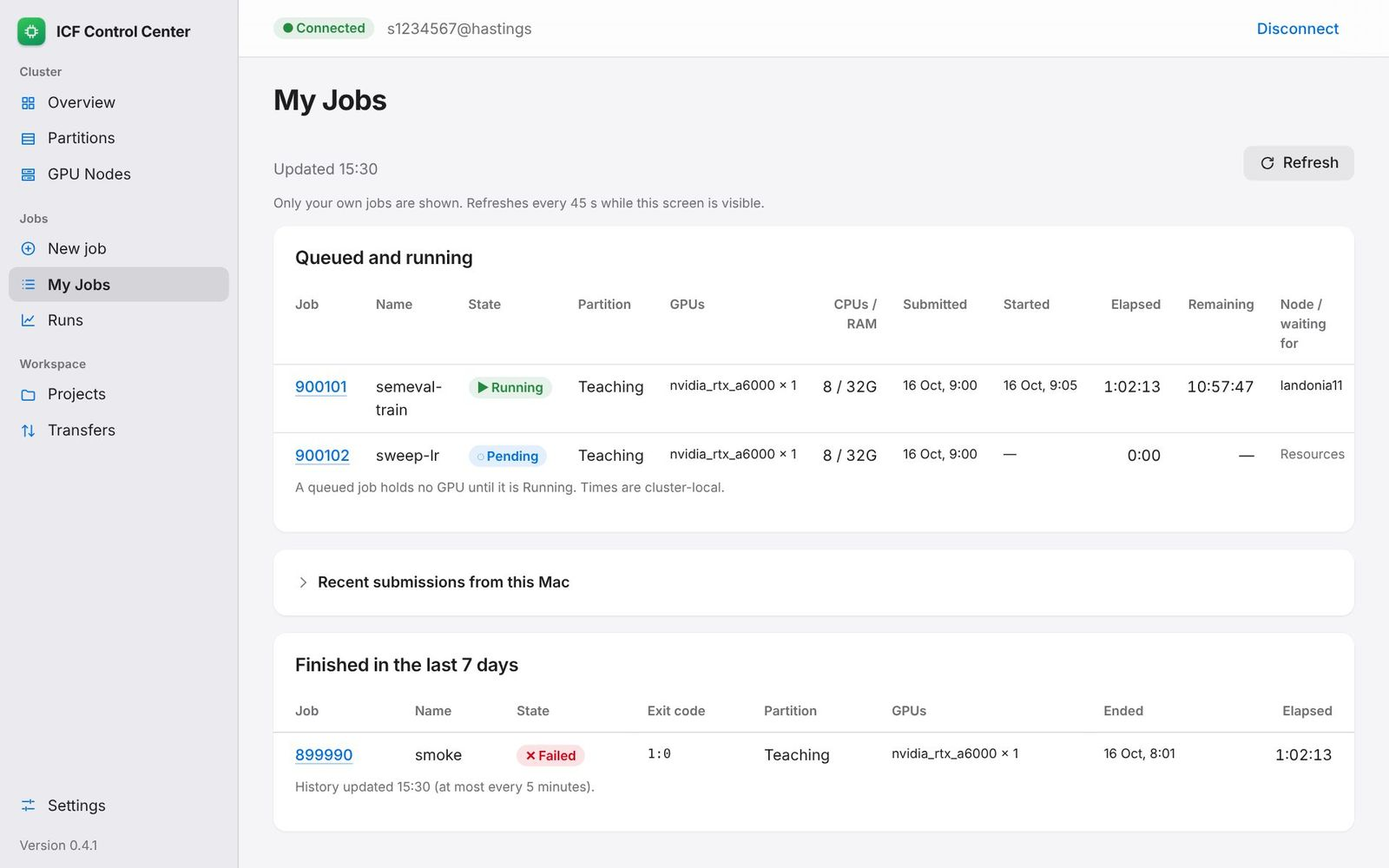
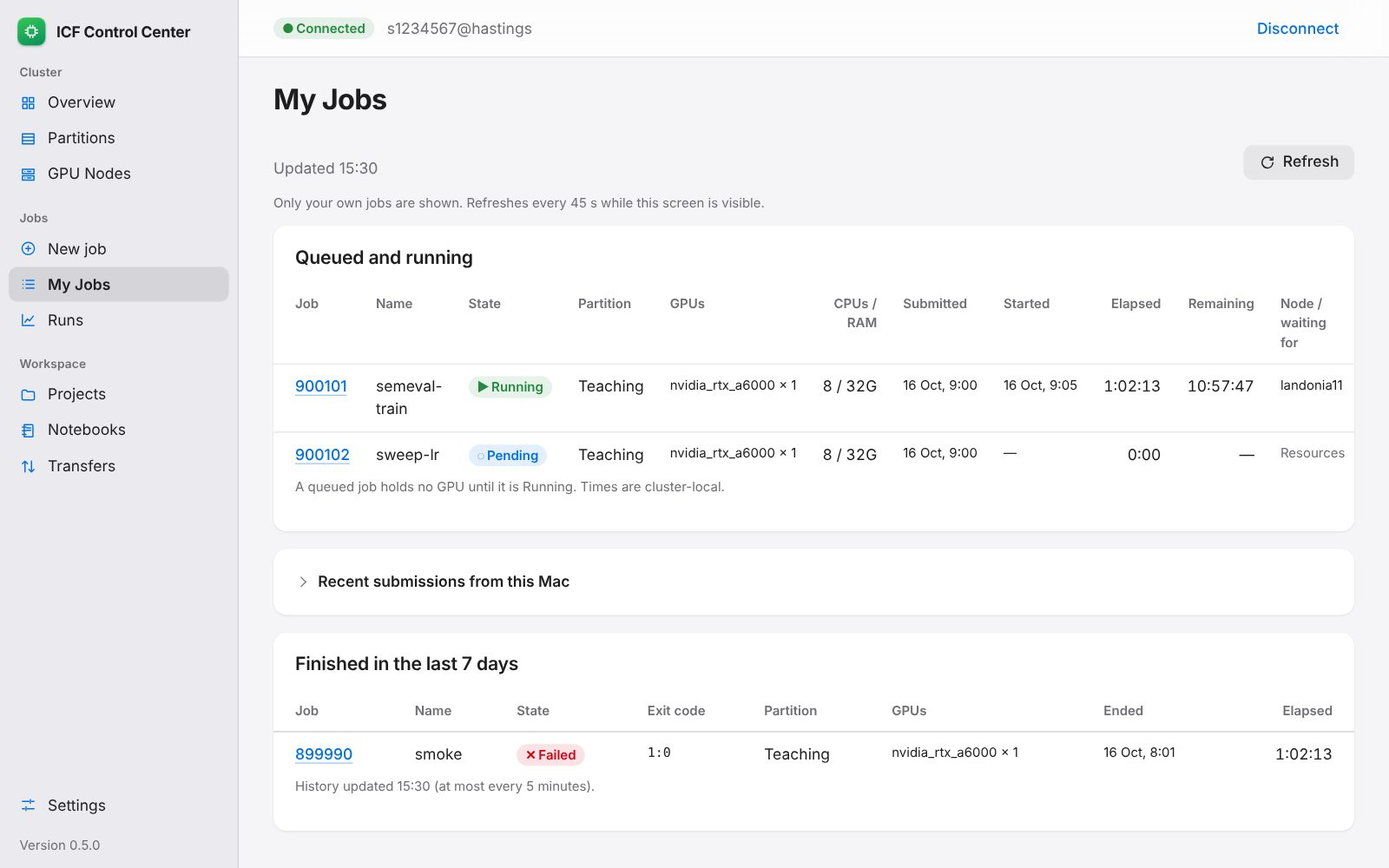
Release 0.5.0: docs for compiled cells and Run on GPU, new screenshots
- ADR-031 amended: CUDA/C++/C via kernel magics, editor runs, why not
  separate kernels (xeus-cling).
- USER_GUIDE (compiled cells, Run on GPU), ICF_COMMANDS §4.7 (magics, tools),
  SECURITY, TESTING, ARCHITECTURE, CHANGELOG [0.5.0], release checklist.
- README: New in 0.5, Run on GPU and CUDA cell screenshots; every screenshot
  retaken (Notebooks in the sidebar, Version 0.5.0).
- Version 0.5.0 in package.json, Cargo.toml (+ lock) and tauri.conf.json.

Claude-Session: https://claude.ai/code/session_018vXRh55FoNY1FZu8AfXvkn

diff --git a/README.md b/README.md
@@ -8,7 +8,7 @@ See which GPUs are free, run jobs and training on GPU nodes, work in Jupyter not
 your code on ICF, open projects in VS Code without password prompts, move datasets, and follow
 everything — without remembering a single `sinfo`, `sbatch` or `squeue` flag.
 
-![version](https://img.shields.io/badge/version-0.4.1-blue)
+![version](https://img.shields.io/badge/version-0.5.0-blue)
 ![platform](https://img.shields.io/badge/macOS-13%2B%20·%20Apple%20Silicon-lightgrey)
 ![built with](https://img.shields.io/badge/built%20with-Tauri%20·%20Rust%20·%20React-orange)
 
@@ -23,7 +23,19 @@ everything — without remembering a single `sinfo`, `sbatch` or `squeue` flag.
 
 ---
 
-## 🆕 New in 0.4
+## 🆕 New in 0.5
+
+- 📓 **Notebooks on a GPU** *(experimental)*. A Notebooks tab that reads like JupyterLab: run cells
+  one at a time on an Interactive-partition GPU with variables kept between cells, and see tables,
+  plots, progress bars and errors as they arrive. Jupyter keys and full screen (⌃⌘F). No notebook
+  server, port or token. → [Notebooks](docs/USER_GUIDE.md#notebooks)
+- ⚡ **CUDA, C++ and C cells.** Pick CUDA, C++ or C in a cell's menu (or start it with `%%cuda`,
+  `%%cpp`, `%%c`): it is compiled with `nvcc`/`g++`/`gcc` on the GPU node and run there.
+  → [Compiled cells](docs/USER_GUIDE.md#cuda-c-and-c-cells)
+- ▶ **Run on GPU from the editor.** Python, CUDA, C++ and C files run on a GPU node with one click
+  (⌘⇧Enter), with arguments, and the output appears under the code — saved or not.
+
+## New in 0.4
 
 - ✏ **Edit files on ICF, right in the app.** Python, C/C++, CUDA and Markdown with syntax colours,
   other text files as plain text, and Jupyter notebooks as cells. A save replaces the file on ICF only
@@ -36,7 +48,7 @@ everything — without remembering a single `sinfo`, `sbatch` or `squeue` flag.
 - 🚀 **One *New job* screen** for script jobs and training workflows, and **Runs** in the sidebar.
 - 🎨 **A cleaner, Apple-style look** across every screen.
 
-0.4.1 is a housekeeping release with the same features; see the [changelog](docs/CHANGELOG.md).
+0.4.1 was a housekeeping release; see the [changelog](docs/CHANGELOG.md).
 
 ## ✨ What is it for?
 
@@ -52,8 +64,8 @@ worked. **ICF Control Center puts all of that in one window.**
 | 📜 **Live logs** | Read your job's output and errors in the app, and follow them while it runs. |
 | 🛑 **Cancel safely** | Cancel your own jobs, with a confirmation. Other people's jobs can't be touched. |
 | 🗂 **Projects** | Browse your ICF home, create folders and files, and keep your recent projects one click away. |
-| ✏ **Edit on ICF** | Code editor with syntax colours, search and ⌘S. Saves are checked, so they never silently overwrite someone else's change. |
-| 📓 **Notebooks** *(experimental)* | Jupyter notebooks as a real notebook page: run cells one at a time on an Interactive-partition GPU, see tables, plots and errors as they arrive, Jupyter keys, full screen. No notebook server, port or token. |
+| ✏ **Edit on ICF** | Code editor with syntax colours, search and ⌘S. Saves are checked, so they never silently overwrite someone else's change. **Run on GPU** runs a Python, CUDA, C++ or C file on a GPU node and shows its output. |
+| 📓 **Notebooks** *(experimental)* | Jupyter notebooks as a real notebook page: run cells one at a time on an Interactive-partition GPU, see tables, plots and errors as they arrive, Jupyter keys, full screen. Python, CUDA, C++ and C cells. No notebook server, port or token. |
 | 🧑💻 **VS Code** | Open a project in VS Code over Remote - SSH, optionally signed in through the app so it never asks for passwords. Pick the remote Python interpreter and CUDA toolchain. |
 | ⇅ **Transfers** | Upload datasets and download results over your existing SSH connection, verified with SHA-256, resumable, never overwriting. |
 | 🏋 **Training workflows** | One reviewed job that stages data to the GPU node's fast local disk, trains, saves checkpoints, copies results back and cleans up. |
@@ -77,8 +89,8 @@ worked. **ICF Control Center puts all of that in one window.**
 | Python, with syntax colours | CUDA (dark mode) |
 |---|---|
 | ![Editing train.py on ICF in the app](docs/screenshots/editor-python.jpg) | ![Editing a CUDA kernel in dark mode](docs/screenshots/editor-cuda-dark.jpg) |
-| **New file…** | |
-| ![Create a file on ICF: name and type, then open it in the editor](docs/screenshots/new-file.jpg) | |
+| **Run on GPU** | **New file…** |
+| ![The editor running kernel.cu on a GPU node with program arguments; the output appears below the code](docs/screenshots/editor-run-gpu.jpg) | ![Create a file on ICF: name and type, then open it in the editor](docs/screenshots/new-file.jpg) |
 
 ### Notebooks on a GPU (experimental)
 
@@ -87,6 +99,8 @@ worked. **ICF Control Center puts all of that in one window.**
 | ![Notebook page: rendered Markdown, code cells with outputs, kernel chip showing Python, node and time left](docs/screenshots/notebook-page.jpg) | ![Start kernel sheet: Interactive partition, GPU, CPUs, memory, time, Python, the srun line and notices to confirm](docs/screenshots/notebook-kernel.jpg) |
 | **Plots, progress and errors** | **Full screen (dark mode)** |
 | ![Notebook outputs: a bar chart, run timings and Markdown](docs/screenshots/notebook-outputs.jpg) | ![Notebook in full screen, dark mode, with a pandas table](docs/screenshots/notebook-fullscreen-dark.jpg) |
+| **A CUDA cell, compiled and run on the node** | |
+| ![A %%cuda cell with a CUDA badge: a saxpy kernel compiled with nvcc on the GPU node, and its output](docs/screenshots/notebook-cuda.jpg) | |
 
 ### VS Code and Python environments
 

diff --git a/docs/TESTING.md b/docs/TESTING.md
@@ -81,14 +81,15 @@ Notes:
   window opening (the CLI is exercised with a fake bundle; detection was checked read-only against the
   real install).
 
-## Interactive kernels and the Notebooks tab (after 0.4.1)
+## Interactive kernels, the Notebooks tab and Run on GPU (0.5.0)
 
 | Suite | What |
 |---|---|
-| Rust `kernel::tests` (12) | validation (Interactive only, MaxTime, hostile paths, unknown fields), rendering (quoting, one `exec srun`, heredoc delimiters), driver/srun line parsing, oversized lines, final messages |
-| Rust `kernel::tests::real_driver_*`, `closing_stdin_alone_*`, `missing_notebook_*` | the **real** launch script through `/bin/sh -s` with a fake `srun` on `PATH` and the real `driver.py` + ipykernel: handshake, outputs, `stop_on_error` aborts, interrupt, restart, stop, EOF exit, precheck refusal. Needs a Python with `ipykernel` (`ICFCC_TEST_PYTHON`; CI installs one in a throwaway venv), else skipped |
+| Rust `kernel::tests` (12) | validation (Interactive only, MaxTime, hostile paths, runnable file types, unknown fields), rendering (quoting, one `exec srun`, heredoc delimiters), driver/srun line parsing, oversized lines, final messages |
+| Rust `kernel::tests::real_driver_*`, `closing_stdin_alone_*`, `missing_notebook_*` | the **real** launch script through `/bin/sh -s` with a fake `srun` on `PATH` and the real `driver.py` + ipykernel: handshake, outputs, `stop_on_error` aborts, interrupt, restart, stop, EOF exit, precheck refusal; after the restart, compiled cells: `%%cpp` with args and a local header, a compile error, `%%c` exit codes and `-lm`, `%%cuda` without `nvcc`, `%%icfcc_script` with `sys.argv` and `sys.exit(2)` (g++/gcc cases need the compilers; CI's macos-14 has them). Needs a Python with `ipykernel` (`ICFCC_TEST_PYTHON`; CI installs one in a throwaway venv), else skipped |
 | Rust `workflow::tests::toolchain_lines_are_rendered_exactly` | the shared toolchain lines keep the batch wrapper byte-identical |
-| Frontend `tests/notebooks.test.tsx` (12) | Markdown/HTML whitelisting (scripts, styles, `on*`, remote images, `javascript:` links), ANSI and progress bars, stream merging, MIME priority, Jupyter keys, byte-for-byte serialisation; Notebooks tab: open from Projects, save only edited source, reviewed kernel start, live run + saved outputs, Run all stops at the first error, leave guard stops the kernel, full screen, command-mode keys |
+| Frontend `tests/notebooks.test.tsx` (14) | Markdown/HTML whitelisting (scripts, styles, `on*`, remote images, `javascript:` links), ANSI and progress bars, stream merging, MIME priority, Jupyter keys, byte-for-byte serialisation; Notebooks tab: open from Projects, save only edited source, reviewed kernel start, live run + saved outputs, Run all stops at the first error, leave guard stops the kernel, full screen, command-mode keys; cell language from the magic line, switching a cell to CUDA from its menu |
+| Frontend `tests/run.test.tsx` (5) | which files run and the cell sent for each; editor Run on GPU for CUDA (unsaved text, arguments, reviewed kernel start, output panel) and Python (`%%icfcc_script` with the path); leaving asks first and stops the kernel; no run bar for other text files |
 
 ## Live ICF smoke tests (manual, need explicit approval)
 

diff --git a/docs/ICF_COMMANDS.md b/docs/ICF_COMMANDS.md
@@ -378,7 +378,7 @@ prints `ready`:
 ```sh
 # icfcc:kernel
 umask 077
-<need_file '<notebook>' notebook home; need_exec '<python>' interpreter; need_file '<rc>' toolchain any>
+<need_file '<file>' file home; need_exec '<python>' interpreter; need_file '<rc>' toolchain any>
 command -v srun …  ||  printf '@@err nosrun'          # prechecks print @@err … and exit 0
 ICFCC_DRIVER=$(cat <<'ICFCC_PY_<tag>'                # driver.py, embedded in the app
 …
@@ -388,7 +388,7 @@ export ICFCC_DRIVER
 ICFCC_STEP=$(cat <<'ICFCC_STEP_<tag>'                # runs on the node under bash
 source '<rc>' / module load … ; PY='<python>' ; . "$(dirname "$PY")/activate"
 "$PY" -c 'import ipykernel, jupyter_client' || fail ipykernel_missing
-cd '<notebook folder>' && exec "$PY" -u -c "$ICFCC_DRIVER"
+cd '<the file's folder>' || fail workdir_missing ; exec "$PY" -u -c "$ICFCC_DRIVER"
 ICFCC_STEP_<tag>
 )
 printf '@@starting\n'
@@ -399,11 +399,25 @@ exec srun --job-name=icfcc-notebook-<tag> --partition=<Interactive…> --nodes=1
 
 On the node, the driver writes a connection file with a random key in a private `mkdtemp` (0700) and
 starts `python -m ipykernel_launcher -f <file>` over **IPC sockets** (no TCP port). It relays JSON
-lines: in `exec{id,code}`, `interrupt` (SIGINT to the kernel), `restart`, `stop`; out `ready{job,node,python}`,
+lines: in `exec{id,code}`, `interrupt` (SIGINT to the kernel), `restart`, `stop`; out `ready{job,node,python,tools}`,
 `out{id,output}` (nbformat output dicts; one payload over 2 MiB becomes a notice), `clear`, `done{id,count,status}`,
 `status{busy}`, `restarted`, `bye{reason}`. It exits on stdin EOF, `stop`, SIGTERM/SIGHUP, kernel death, or 30
 minutes without an execution, and removes its directory. srun's own stderr (`srun: job N queued …`,
 `srun: error: …`) gives the job id and any refusal.
+
+`<file>` is the open notebook, or the source file the editor runs (`.py .cu .cpp .cc .cxx .c`). Before
+`ready`, the driver runs one fixed, silent snippet in the kernel (`MAGICS`, again after each restart)
+that adds the cell magics the app uses:
+
+| Magic (first line of the code sent) | On the node |
+|---|---|
+| `%%cuda` / `%%cu`, `%%cpp`, `%%c` `[flags] [-- args]` | write the cell to a private `mkdtemp` (0700); `nvcc -O2 [-arch=native]`, `g++ -std=c++17 -O2` or `gcc -O2` with the flags, `-I <folder>` and `-l…` after the source; run the binary in the folder with the args; remove the directory |
+| `%%icfcc_script '<path>' [-- args]` (editor, Python files) | run the text as `__main__` with `__file__` and `sys.argv` set, restored afterwards |
+
+The compilers come from `PATH` after the project's toolchain lines, so `nvcc` is the selected CUDA
+toolchain's. `tools` in `ready` names those found (`nvcc 12.8 · g++ 11.4.0`, each from `--version`
+with a 5 s limit). The magic line and the cell are the user's own code, run by their own kernel in
+their allocation; nothing is interpolated into a shell (`subprocess` with an argument list).
 
 ---
 

diff --git a/docs/RELEASE_CHECKLIST.md b/docs/RELEASE_CHECKLIST.md
@@ -63,16 +63,26 @@
 - [ ] A real sign-in still works with the 0.4.1 build
 - [x] Publish the draft release
 
-## Next release (Notebooks tab and interactive kernels, ADR-031)
+## v0.5.0 (Notebooks tab, interactive kernels, CUDA/C++/C cells, Run on GPU in the editor; ADR-031)
 
-- [x] Frontend gates: lint (incl. ui/logic boundary), typecheck, 81 UI tests, production build
+- [x] Frontend gates: lint (incl. ui/logic boundary), typecheck, 89 UI tests, production build
 - [x] Rust: fmt, clippy `-D warnings` and tests run locally on Linux (macOS-only modules stubbed);
-      the real driver + ipykernel relay test passes
-- [x] Rust gates on macos-14 CI (run 27): fmt, clippy, 136 unit tests incl. the real driver + ipykernel relay, auth and job flows
+      the real driver + ipykernel relay test passes, including compiled cells with g++/gcc
+- [x] Rust gates on macos-14 CI (run 27, before compiled cells): fmt, clippy, 136 unit tests incl. the real driver + ipykernel relay, auth and job flows
+- [ ] Rust gates on macos-14 CI for the 0.5.0 head (compiled cells with Apple clang as g++/gcc)
+- [ ] Opt-in: `cargo test --test real_openssh -- --ignored` and `cargo test --lib keychain_roundtrip -- --ignored`
+- [ ] Built `.app` (demo data): Notebooks tab, a CUDA cell, editor run bar, full screen (button and
+      ⌃⌘F) in WebKit, notebook CSS loads under the CSP, light and dark
 - [ ] **Approved live kernel test** (needs explicit consent): open a notebook, start a kernel on
-      Interactive (1 GPU, 15 min), run `import torch; torch.cuda.is_available()` and a cell that prints;
-      Stop; `squeue -u $USER` shows no job left. Repeat with Disconnect instead of Stop, and once
-      leaving the kernel idle until the 30-minute shutdown (or a short time limit)
+      Interactive (1 GPU, 15 min) with the project's CUDA toolchain; run
+      `import torch; torch.cuda.is_available()`, a `%%cuda` saxpy, a `%%cpp` hello, Interrupt, Restart;
+      Stop; `squeue -u $USER` shows no job left. Repeat with Disconnect instead of Stop, and once with
+      **Run on GPU** for a `.cu` file in the editor
 - [ ] Confirm students may `srun` on Interactive from the login node; note typical queue times
-- [ ] Built `.app`: full screen (button and ⌃⌘F) works in WebKit; notebook CSS loads under the CSP
-- [ ] Bump versions, changelog date, tag
+- [ ] Confirm the ICF CUDA toolchains support `nvcc -arch=native` (CUDA 11.6+)
+- [x] Versions agree: `frontend/package.json`, `backend/Cargo.toml` (+ `Cargo.lock`), `backend/tauri.conf.json`
+- [ ] Merge the PR (merge commit), set the CHANGELOG date to the tag date, tag `v0.5.0` on `main`, push the tag
+- [ ] Release workflow green: `.app` built on macos-14, ad-hoc signed, `codesign --verify` passes,
+      zip + SHA-256 attached to the draft release
+- [ ] Downloaded zip opens on an Apple Silicon Mac; sidebar shows **Version 0.5.0**; demo data works
+- [ ] Publish the draft release

diff --git a/docs/USER_GUIDE.md b/docs/USER_GUIDE.md
@@ -120,6 +120,15 @@ without VS Code:
 - **Keys:** Tab indents (press Esc, then Tab, to leave the editor). ⌘F searches and ⌘S saves.
 - **Notebooks** (`.ipynb`) open in the [Notebooks](#notebooks) tab instead.
 
+**Run on GPU (experimental).** Python (`.py`), CUDA (`.cu`), C++ (`.cpp`, `.cc`, `.cxx`) and C (`.c`)
+files have a run bar above the editor. **Start kernel…** reviews an interactive kernel exactly as in
+the [Notebooks](#notebooks) tab; then type the program's arguments and press **Run on GPU** (⌘⇧Enter).
+The text in the editor runs, saved or not, in the file's folder on the GPU node: Python as a script
+(`__name__ == "__main__"`, `sys.argv` set), CUDA/C++/C compiled first (see
+[compiled cells](#cuda-c-and-c-cells) for the compiler options). Output appears below the editor; a
+compile error or a non-zero exit code is shown in red. The kernel keeps running between runs and stops
+when you leave the file (the app asks first), like a notebook's.
+
 **Saving.** Save writes to ICF only if nobody changed the file since you opened it, for example in
 VS Code. If someone did, you choose **Reload from ICF** or **Overwrite the version on ICF**. Leaving
 with unsaved edits asks first.
@@ -256,6 +265,28 @@ them into the notebook, as Jupyter does.
 The kernel holds the GPU until you **Stop** it, leave the notebook or disconnect (the app asks first),
 after 30 minutes without running a cell, or at its time limit. **Interrupt** stops the running cell;
 **Restart** clears all variables. *Run all* stops at the first error.
+
+### CUDA, C and C++ cells
+
+Choose **CUDA**, **C++** or **C** in a cell's type menu, or start a code cell with `%%cuda`, `%%cpp` or
+`%%c` (the notebook stays an ordinary Jupyter notebook). Running the cell compiles it on the GPU node
+and runs the program there; its output streams into the cell:
+
+```
+%%cuda -O3 -lcublas -- 1048576
+#include <cstdio>
+int main(int argc, char **argv) { … }
+```
+
+- **First line:** compiler flags, then `--` and the program's arguments.
+- **Compilers:** `nvcc -O2 -arch=native` (the GPU of your allocation; pass `-arch=sm_75` or
+  `-gencode …` to choose, e.g. for CUDA older than 11.6), `g++ -std=c++17 -O2`, `gcc -O2`. Headers in
+  the notebook's folder are found (`-I`), and the program runs in that folder.
+- **`nvcc` comes from the project's CUDA toolchain** (Projects → Python environment); choose one before
+  starting the kernel. The kernel chip's tooltip lists the compilers it found.
+- **Errors:** compiler messages appear in the cell, and a failed build or a non-zero exit code marks the
+  cell as an error, so *Run all* stops there. **Interrupt** stops a running program.
+- Each run is a new process: C/C++ variables do not persist between cells, unlike Python's.
 
 **Full screen.** The ⤢ button (or ⌃⌘F) hides the sidebar and status bar and makes the window full
 screen, like an editor's zen mode.

diff --git a/docs/ARCHITECTURE.md b/docs/ARCHITECTURE.md
@@ -14,11 +14,12 @@ logic/    .ts only: what each screen knows and does
   api.ts             the only invoke()/listen() wrapper (typed IPC to the backend)
   format.ts          display formatting and state labels
   persist.ts         remembered UI preferences (localStorage, never secrets)
-  app/               useAppShell: connection, settings, snapshot, navigation, guarded disconnect
+  app/               useAppShell: connection, settings, snapshot, navigation, leave guard (guard.ts),
+                     guarded disconnect
   cluster/           useSnapshot (polling budget), node/partition filters, fleet totals, GPU limits
   connection/        useConnection (status + SSH prompts), useLogin, useChallenge
   jobs/              useJobs, script-job draft + preview/submit, My Jobs, job detail + cancel, log stream
-  editor/            file editor (hash-checked save), languages
+  editor/            file editor (hash-checked save), languages, Run on GPU (useEditorPage, runFile)
   notebooks/         notebook parse/serialize + cells and modes, Jupyter keys, Markdown/HTML → safe
                      element tree, ANSI, outputs, kernel (useKernel, start sheet), recent notebooks
   projects/          remote browser, recent projects, VS Code status/sharing, Python environment
@@ -97,7 +98,7 @@ monitoring: workflow_refresh ─▶ jobs_list_mine (shared, rate-limited) + one 
 ## Interactive kernel (ADR-031)
 
 ```text
-Notebooks page ─kernel_preview(request)─▶ Interactive partition only + resource/interpreter checks
+Notebook or editor page ─kernel_preview(request)─▶ Interactive partition only + resource/interpreter checks
        ◀─ srun line + notices (stored like a V2 preview)
 Start ─kernel_start(previewId, ack, Channel)─▶ take preview (consumed) ─▶ re-validate
        ─▶ Session::spawn_stream: ssh -T … sh -s  (one long-lived mux session, stdin kept open)
@@ -105,6 +106,8 @@ login node:  prechecks ─▶ @@starting ─▶ exec srun … /bin/bash -c "$ICF
 compute node: toolchain, venv, import check ─▶ python -u driver.py ─ipc (0700 dir)─▶ ipykernel
        ◀─ srun stderr: queued (job id) | error;  driver stdout: ready / out / done / bye (JSON lines)
 cells ─kernel_execute(id, code)─▶ one JSON line on stdin ─▶ outputs stream back on the Channel
+       %%cuda/%%cpp/%%c: compile in a 0700 mkdtemp on the node, run, remove (driver MAGICS)
+       editor Run on GPU: the buffer as one cell (%%cuda… or %%icfcc_script '<path>' for Python)
 end:  Stop | leave page | Disconnect/quit | 30 min idle | --time | SSH drop ─▶ driver exits, srun ends
        kernel_stop: stop line + EOF, then owner-checked scancel if the job is still there, then kill
 ```

diff --git a/docs/DECISIONS.md b/docs/DECISIONS.md
@@ -266,8 +266,26 @@ host-key-changed errors (ADR-003), and a second login.
 - **Rendering.** Markdown (markdown-it, parser only, `html: false`) and HTML outputs are converted to
   a whitelisted element tree, never inserted as HTML: raw HTML stays text, links do not navigate,
   images must be `data:` (inline outputs or cell attachments), SVG is shown through `<img>`.
+- **Compiled languages (0.5.0).** CUDA, C++ and C run on the same Python kernel, not on kernels of
+  their own. At start and after each restart the driver loads a fixed IPython snippet (`MAGICS`) with
+  the cell magics `%%cuda`/`%%cu`, `%%cpp` and `%%c`: the cell is written to a private `mkdtemp`
+  (0700), compiled with `nvcc` (`-O2 -arch=native` unless an `-arch`/`-gencode` flag is given),
+  `g++ -std=c++17 -O2` or `gcc -O2`, always with `-I <the file's folder>`, and the binary runs in that
+  folder; its output streams line by line, Interrupt terminates it, and the directory is removed.
+  Flags come first on the magic line and program arguments after `--`. Notebooks stay plain Jupyter
+  (the magic is the cell's first line). `ready` reports the compilers found (`tools`), and the
+  project's CUDA toolchain is sourced before the driver starts, so `nvcc` is on `PATH`.
+- **Editor runs (0.5.0).** The file editor's **Run on GPU** starts the same kind of kernel for a
+  `.py`, `.cu`, `.cpp`, `.cc`, `.cxx` or `.c` file (`KernelRequest.path`; the kernel runs in the
+  file's folder) and sends the unsaved buffer as one cell: `%%cuda|%%cpp|%%c -- <args>`, or for
+  Python `%%icfcc_script '<path>' -- <args>`, which runs the text as `__main__` with `sys.argv` set.
+  No new backend command or capability; the editor page owns the kernel like the notebook page.
+- **Not chosen.** Separate Jupyter kernels (xeus-cling for C++, a CUDA kernel): they need conda
+  installs on ICF, support CUDA poorly, and would add a kernel picker for little gain over compiling
+  each cell. A persistent C++ interpreter state is the one thing lost.
 - **Open.** Live check on ICF (needs your consent): that students may `srun` on Interactive from the
-  login node, and how long allocations queue there.
+  login node, how long allocations queue there, and which CUDA toolchains support `-arch=native`
+  (CUDA 11.6+).
 
 ## Open questions (need the user or Informatics)
 1. Exact prompt text of student.ssh.inf.ed.ac.uk and icf (password vs keyboard-interactive, MFA).

diff --git a/docs/CHANGELOG.md b/docs/CHANGELOG.md
@@ -1,6 +1,6 @@
 # Changelog
 
-## [Unreleased]
+## [0.5.0] — 2026-10-24 · Notebooks
 
 ### Added
 - **Notebooks tab** (Workspace). Opens `.ipynb` files from Projects or its own browser, with recent
@@ -16,11 +16,20 @@
   minutes without running a cell, or at its time limit; Interrupt and Restart work as in Jupyter.
 - **Full screen** for notebooks (button or ⌃⌘F): hides the sidebar and status bar and makes the
   window full screen.
+- **CUDA, C++ and C cells.** Pick CUDA, C++ or C in a cell's type menu (or start the cell with
+  `%%cuda`, `%%cpp` or `%%c`): the cell is compiled with `nvcc`, `g++` or `gcc` on the GPU node and run
+  there, with its output streamed into the notebook. Compiler flags go on the first line, program
+  arguments after `--`; headers next to the notebook are found. `nvcc` targets the allocated GPU
+  (`-arch=native`) unless you pass an architecture. The kernel chip lists the compilers it found.
+- **Run on GPU in the file editor.** Python, CUDA, C++ and C files get a run bar: start a kernel,
+  type program arguments and press **Run on GPU** (⌘⇧Enter). The current text runs, saved or not, and
+  the output appears below the editor. Leaving the file stops the kernel (asked first).
 
 ### Changed
 - `.ipynb` files open in the Notebooks tab instead of the file editor.
 - Settings → Jupyter and the batch-notebook notice describe interactive kernels instead of "disabled".
-- The app now uses `srun` for exactly one thing, the notebook kernel you start (docs updated).
+- The app now uses `srun` for exactly one thing, the kernel you start from a notebook or the editor
+  (docs updated).
 
 ### Internal
 - New capability `kernel-mutations.json`; `kernel_preview` and window full screen in `default.json`.

diff --git a/docs/SECURITY.md b/docs/SECURITY.md
@@ -185,6 +185,11 @@ Login form ──invoke(JSON, in-process)──▶ Rust (Zeroizing<String>)
   runs the owner-checked `scancel` for its id. Code sent to the kernel is the user's own cell text and
   runs with their account, like a batch job; it is capped at 1 MiB per cell and is never logged.
   Batch notebooks still run inside the normal workflow wrapper.
+- **Compiled cells and editor runs (0.5.0).** CUDA/C++/C cells and the editor's Run on GPU add no
+  backend command, capability or remote script: they are kernel code like any cell. The driver
+  compiles with an argument list (no shell) in a private 0700 `mkdtemp` it always removes, runs the
+  binary as the user inside their allocation, and kills it on Interrupt. A kernel can be started only
+  for a notebook or a `.py/.cu/.cpp/.cc/.cxx/.c` file inside home (checked in Rust and again on ICF).
 - **Storage limits are stated, not hidden.** `/home` is NFS and not backed up; scratch is node-local and
   deleted at job end; nothing survives a node failure unless it was synced to `/home` first.
 
